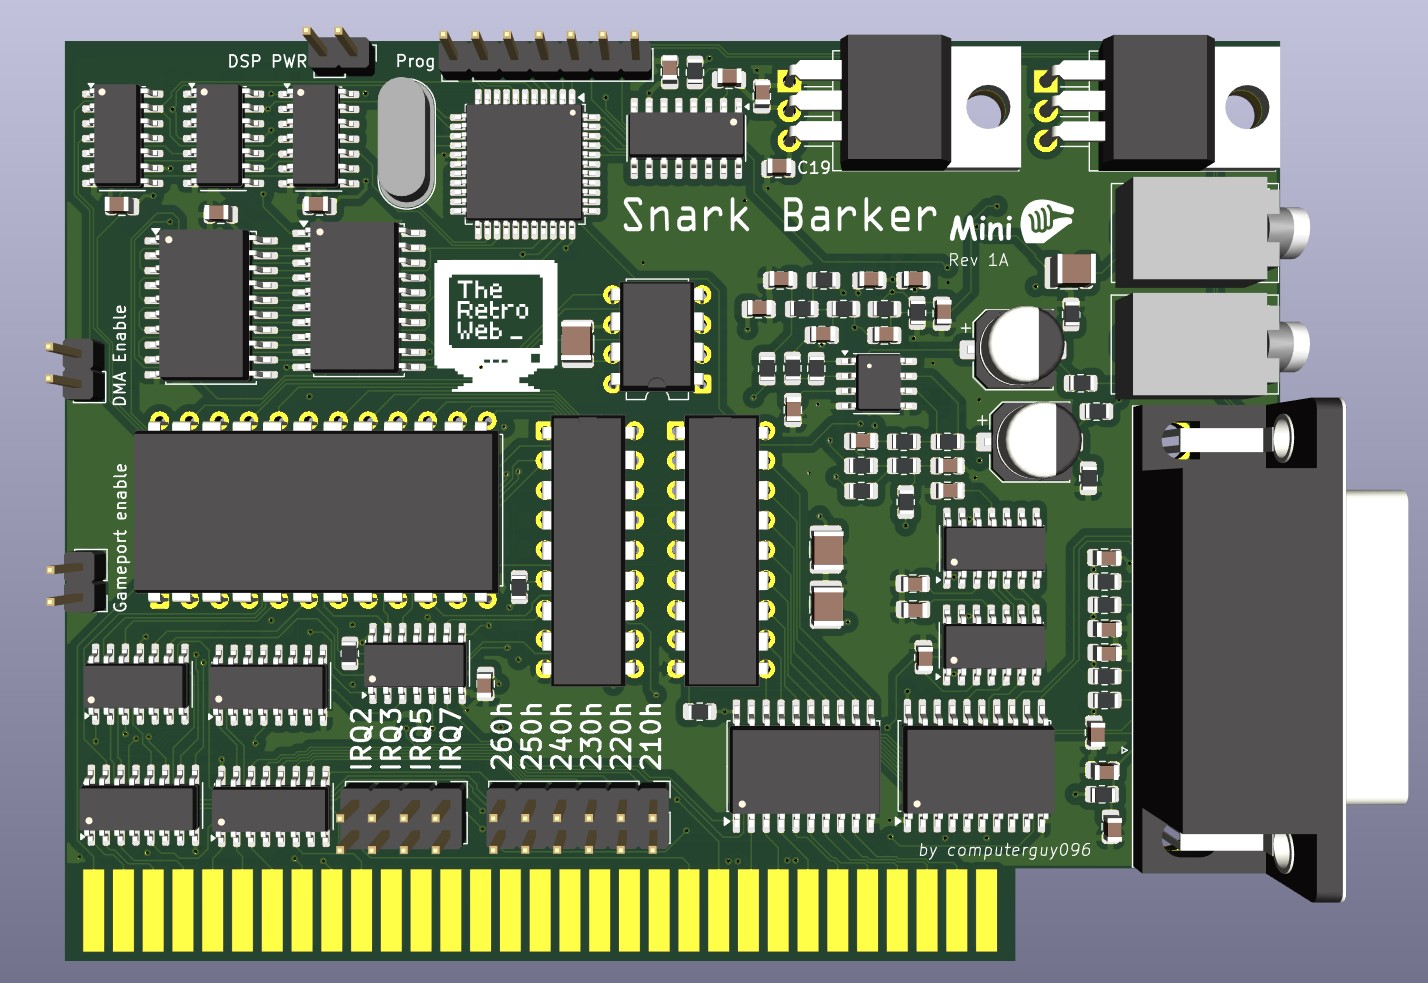
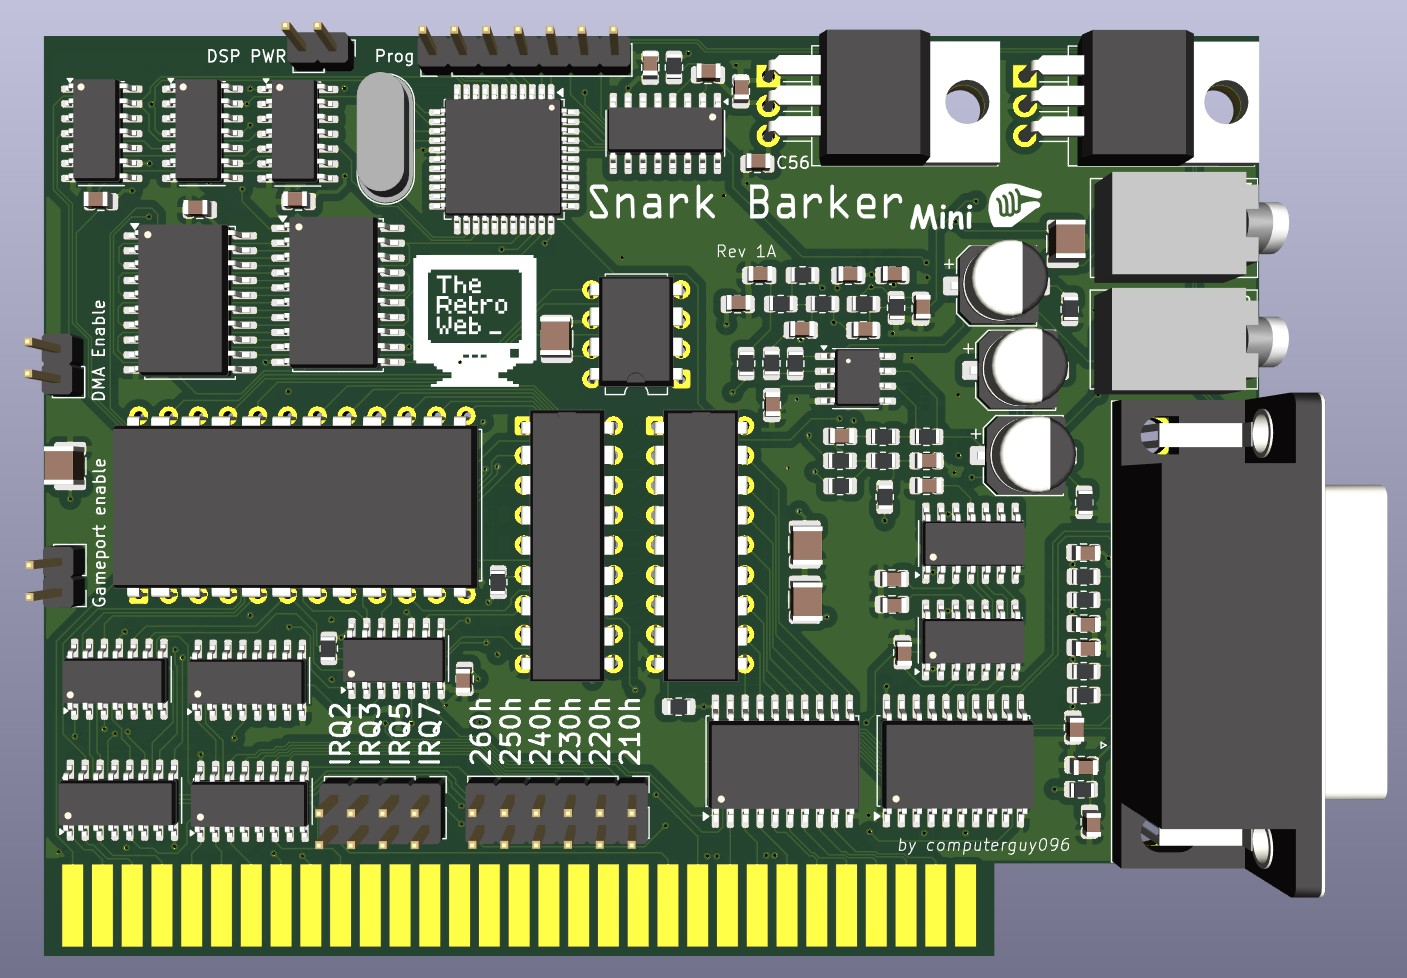
updated readme

diff --git a/README.md b/README.md
@@ -12,7 +12,9 @@ The only major difference is the lack of a volume potentiometer. Due to the card
 ![Rev 1A PCBs](images/top.jpg) ![Rev 1A PCBs](images/bottom.jpg)
 
 ## The Firmware
-This card uses an Atmel 89LP51 as a modern day replacement for the original 80C51 microcontroller Creative used to implement the DSP chip. There is a programming header provided for the DSP chip, which can be flashed with [this HEX file](firmware/sb.hex) using the tool of your choice.
+This card uses an Atmel 89LP51 as a modern day replacement for the original 80C51 microcontroller Creative used to implement the DSP chip. There is a programming header provided for the DSP chip, which can be flashed with [this HEX file](firmware/sb.hex) using the tool of your choice. 
+
+The DSP PWR jumper needs to be installed for normal operation, and removed when programming the DSP (it connects the DSP to VCC).
 
 ## Testing and Diagnostics
 The card can be tested using schlae's [SBDIAG](utility/SBDIAG.EXE)
